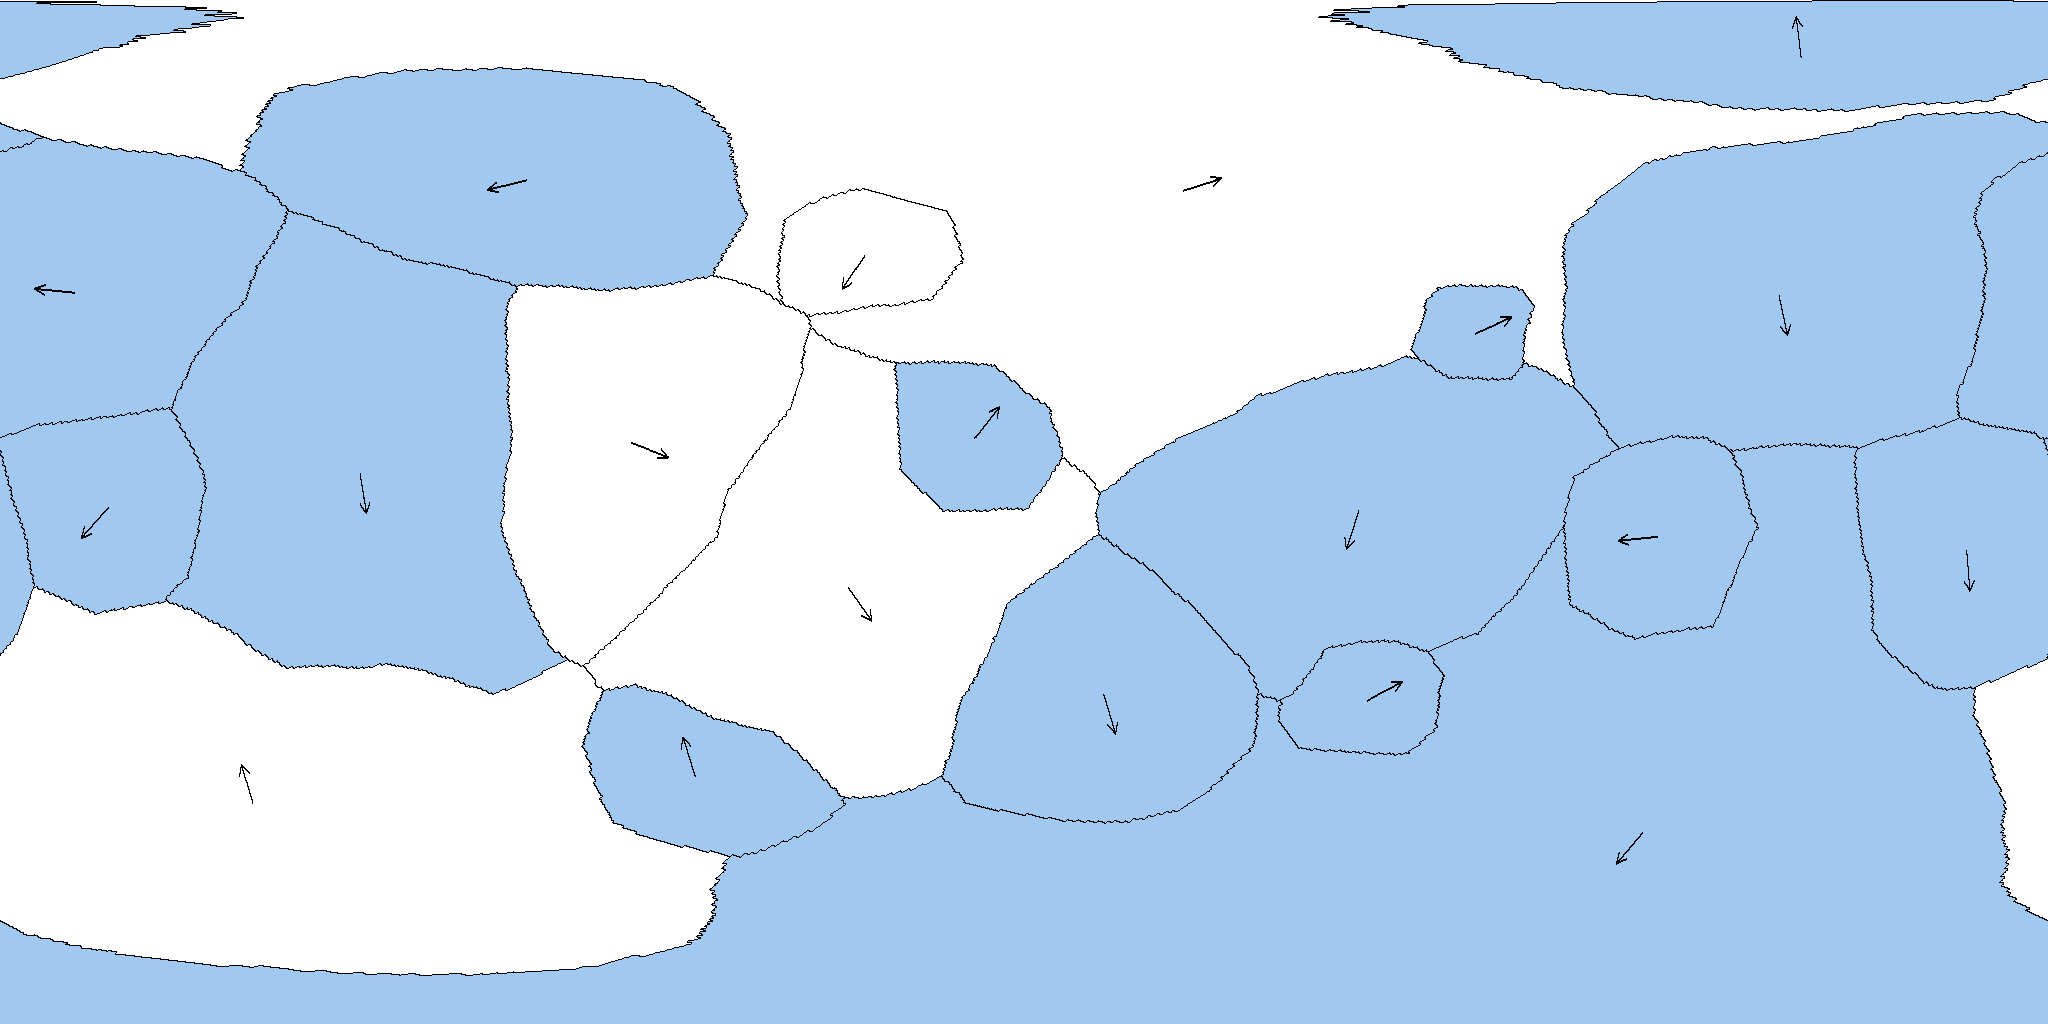
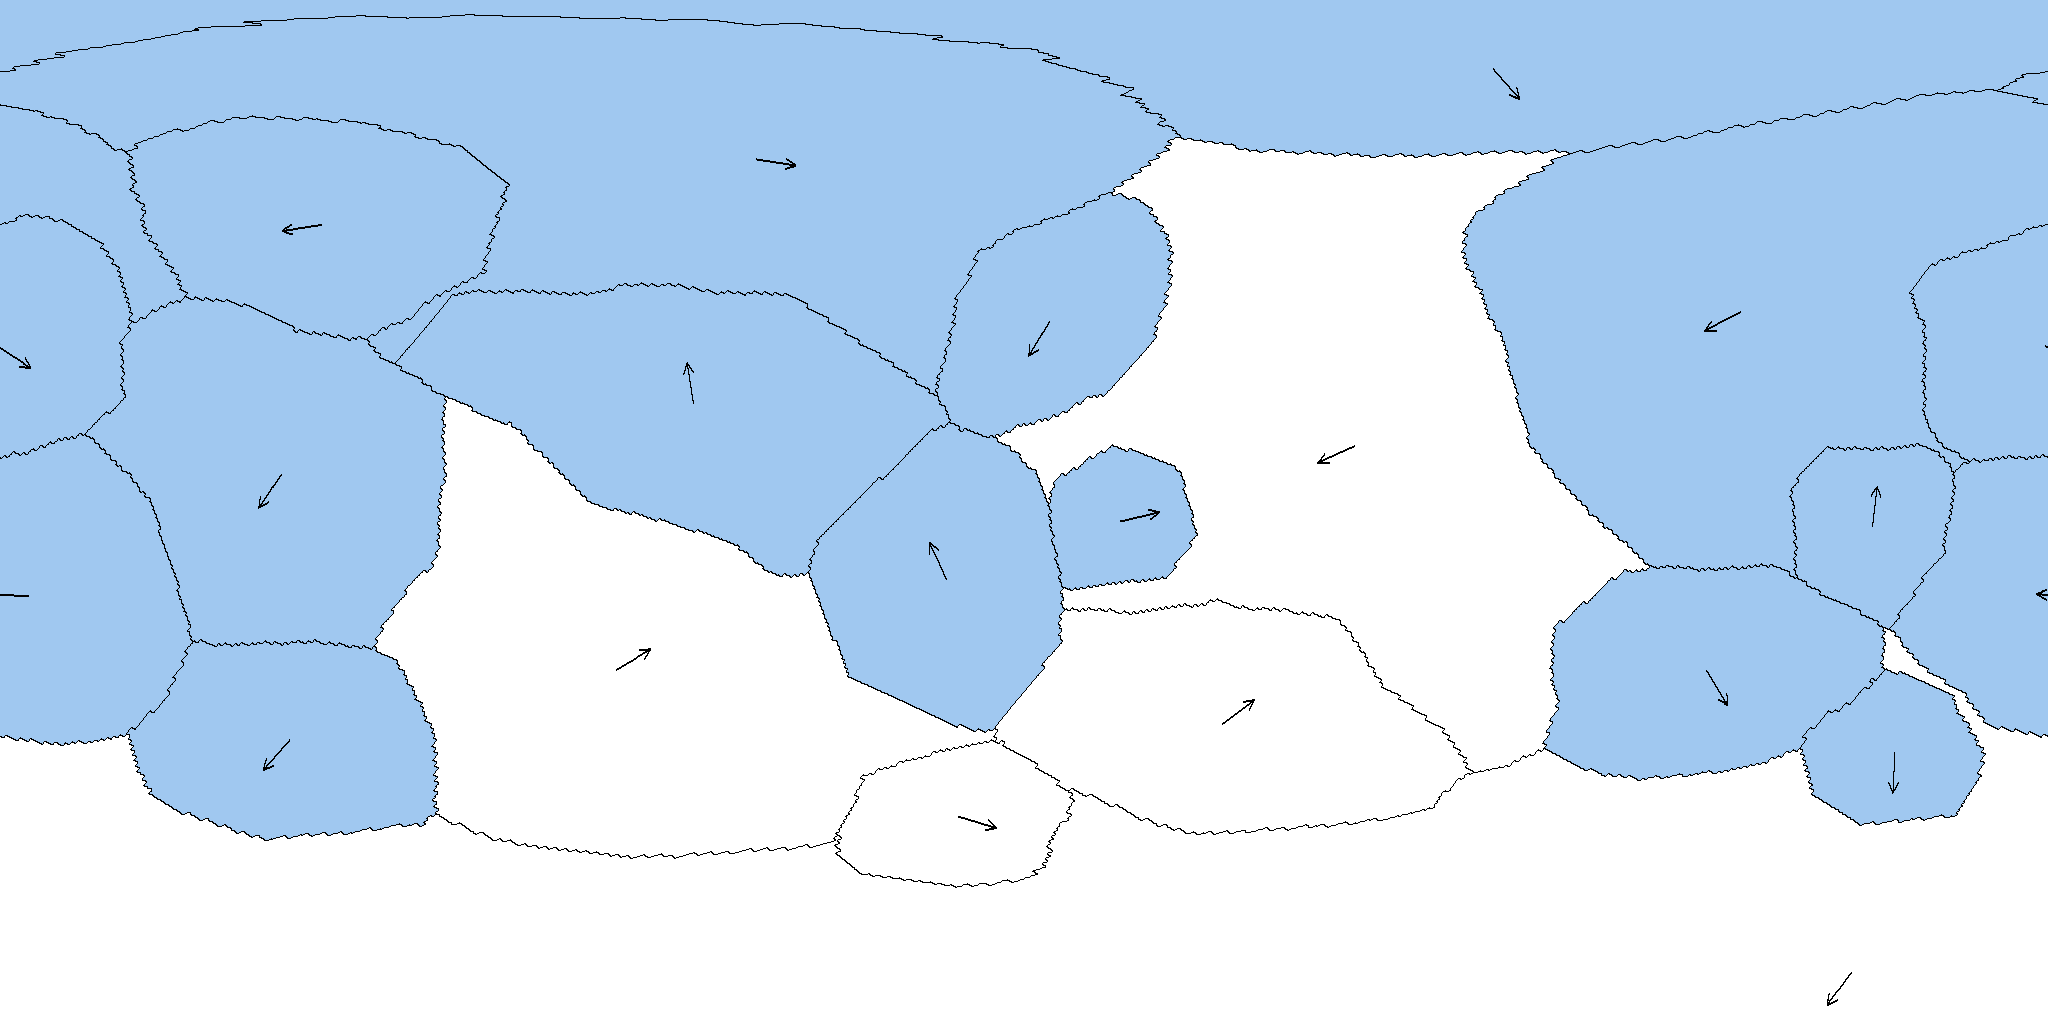
fix: continental collisions now fire

diff --git a/src/tectonic_simulation/simulate.rs b/src/tectonic_simulation/simulate.rs
@@ -1,5 +1,4 @@
 use std::collections::HashMap;
-use std::collections::HashSet;
 
 use glam::{DQuat, DVec3};
 use noise::{Fbm, MultiFractal, NoiseFn, Perlin};
@@ -88,6 +87,7 @@ impl Simulation {
         let boundary = find_boundary_edges(&self.plates, &self.points, &self.adjacency);
         self.process_subduction(&boundary);
         self.process_collisions(&boundary);
+        self.remove_empty_plates();
 
         let boundary = self.maybe_rift(boundary);
         self.maybe_generate_oceanic_crust(&boundary);
@@ -185,8 +185,10 @@ impl Simulation {
                     crust.elevation = new_z;
                     crust.local_direction = new_fold;
                     crust.age = new_age;
-                    if crust.elevation > 0.0 && crust.crust_type == CrustType::Oceanic {
+                    if crust.crust_type == CrustType::Oceanic && crust.elevation > 0.0 {
                         crust.crust_type = CrustType::Continental;
+                        crust.orogeny_type = Some(OrogenyType::Andean);
+                    } else if crust.crust_type == CrustType::Continental {
                         crust.orogeny_type = Some(OrogenyType::Andean);
                     }
                 }
@@ -210,7 +212,7 @@ impl Simulation {
     }
 
     fn process_collisions(&mut self, boundary: &[BoundaryEdge]) {
-        let mut collision_pairs: HashSet<(u32, u32)> = HashSet::new();
+        let mut collision_boundaries: HashMap<(u32, u32), Vec<DVec3>> = HashMap::new();
         for edge in boundary {
             if edge.crust_a != CrustType::Continental || edge.crust_b != CrustType::Continental {
                 continue;
@@ -225,15 +227,15 @@ impl Simulation {
                 continue;
             }
             let pair = (edge.plate_a.min(edge.plate_b), edge.plate_a.max(edge.plate_b));
-            collision_pairs.insert(pair);
+            collision_boundaries.entry(pair).or_default().push(self.points[edge.point as usize]);
         }
 
-        for (plate_a, plate_b) in collision_pairs {
-            self.try_collision(plate_a, plate_b);
+        for ((plate_a, plate_b), boundary_points) in collision_boundaries {
+            self.try_collision(plate_a, plate_b, &boundary_points);
         }
     }
 
-    fn try_collision(&mut self, plate_a: u32, plate_b: u32) {
+    fn try_collision(&mut self, plate_a: u32, plate_b: u32, boundary_points: &[DVec3]) {
         let terranes_a = continental_collision::find_terranes(
             &self.plates[plate_a as usize], &self.points, &self.adjacency,
         );
@@ -241,15 +243,13 @@ impl Simulation {
             return;
         }
 
-        let center_b = plate_centroid(&self.plates[plate_b as usize], &self.points);
-
         let nearest = terranes_a.iter().min_by(|a, b| {
-            let da = arc_distance(a.centroid, center_b);
-            let db = arc_distance(b.centroid, center_b);
+            let da = min_arc_distance(a.centroid, boundary_points);
+            let db = min_arc_distance(b.centroid, boundary_points);
             da.partial_cmp(&db).unwrap()
         }).unwrap();
 
-        let dist_to_boundary = arc_distance(nearest.centroid, center_b);
+        let dist_to_boundary = min_arc_distance(nearest.centroid, boundary_points);
         if dist_to_boundary > COLLISION_THRESHOLD {
             return;
         }
@@ -283,6 +283,10 @@ impl Simulation {
 
         let (src, dst) = borrow_two_mut(&mut self.plates, plate_a as usize, plate_b as usize);
         continental_collision::transfer_terrane(nearest, src, dst);
+    }
+
+    fn remove_empty_plates(&mut self) {
+        self.plates.retain(|p| !p.point_indices.is_empty());
     }
 
     fn maybe_rift(&mut self, boundary: Vec<BoundaryEdge>) -> Vec<BoundaryEdge> {
@@ -462,6 +466,12 @@ fn cluster_bin(p: DVec3, _bin_count: usize) -> usize {
 
 fn arc_distance(a: DVec3, b: DVec3) -> f64 {
     a.normalize().dot(b.normalize()).clamp(-1.0, 1.0).acos() * PLANET_RADIUS
+}
+
+fn min_arc_distance(point: DVec3, targets: &[DVec3]) -> f64 {
+    targets.iter()
+        .map(|&t| arc_distance(point, t))
+        .fold(f64::MAX, f64::min)
 }
 
 /// Rough terrane area estimate from point count, assuming uniform density.

diff --git a/src/tectonic_simulation/plate_visualizer.rs b/src/tectonic_simulation/plate_visualizer.rs
@@ -339,7 +339,7 @@ mod tests {
         generate_and_save(42, output);
     }
 
-    const TIMELAPSE_POINTS: u32 = 250_000;
+    const TIMELAPSE_POINTS: u32 = 100_000;
     const TIMELAPSE_STEPS: usize = 200;
     /// Render every N resample cycles. Each cycle = RESAMPLE_INTERVAL steps.
     const TIMELAPSE_RENDER_EVERY_N_RESAMPLES: usize = 1;
@@ -417,7 +417,12 @@ mod tests {
             if step % steps_per_frame == 0 {
                 recorder.record(&sim);
                 let pct = step * 100 / total_steps;
-                print!("\r[{:>3}%] Recorded frame {} (t={:.0} Myr)        ", pct, recorder.frame_count(), sim.time);
+                print!(
+                    "\r[{:>3}%] Recorded frame {} (t={:.0} Myr)        ",
+                    pct,
+                    recorder.frame_count(),
+                    sim.time
+                );
                 std::io::stdout().flush().unwrap();
             }
         }
